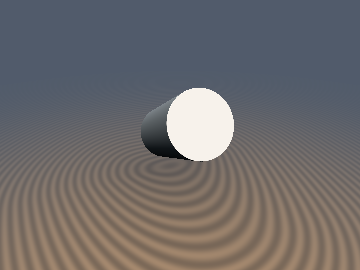
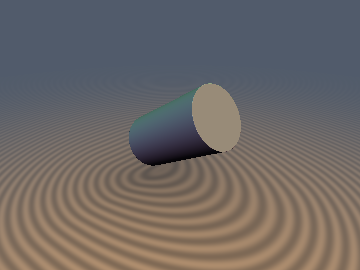
Fix 3D and slice renders for sdgColumns, sdgStairs, sdgChamfer, sdgEngrave, and sdgCylinder

diff --git a/tools/render_sdf.py b/tools/render_sdf.py
@@ -86,16 +86,17 @@ def render_3d_sdf(
         n = np.stack([nx, ny, nz], axis=-1)
         n /= np.maximum(np.linalg.norm(n, axis=-1, keepdims=True), 1e-8)
 
-        lig = np.array([0.58, 0.70, 0.42])
+        lig = np.array([0.55, 0.72, 0.42])
         lig /= np.linalg.norm(lig)
         dif = np.clip(n @ lig, 0.0, 1.0)
         amb = np.clip(0.5 + 0.5 * n[:, 1], 0.0, 1.0)
-        bac = np.clip(n @ np.array([-lig[0], 0.0, -lig[2]]), 0.0, 1.0)
+        bac = np.clip(n @ np.array([-lig[0], -0.2, -lig[2]]), 0.0, 1.0)
 
-        c_ob = (
-            dif[:, None] * np.array([0.85, 0.78, 0.72])[None, :]
-            + amb[:, None] * np.array([0.22, 0.28, 0.32])[None, :]
-            + bac[:, None] * np.array([0.15, 0.14, 0.16])[None, :]
+        albedo = 0.66 + 0.20 * n
+        c_ob = albedo * (
+            0.62 * dif[:, None] * np.array([1.00, 0.95, 0.90])[None, :]
+            + 0.34 * amb[:, None] * np.array([0.75, 0.84, 0.94])[None, :]
+            + 0.18 * bac[:, None] * np.array([0.65, 0.62, 0.68])[None, :]
         )
         col[idx] = np.clip(c_ob, 0.0, 1.0)
 
